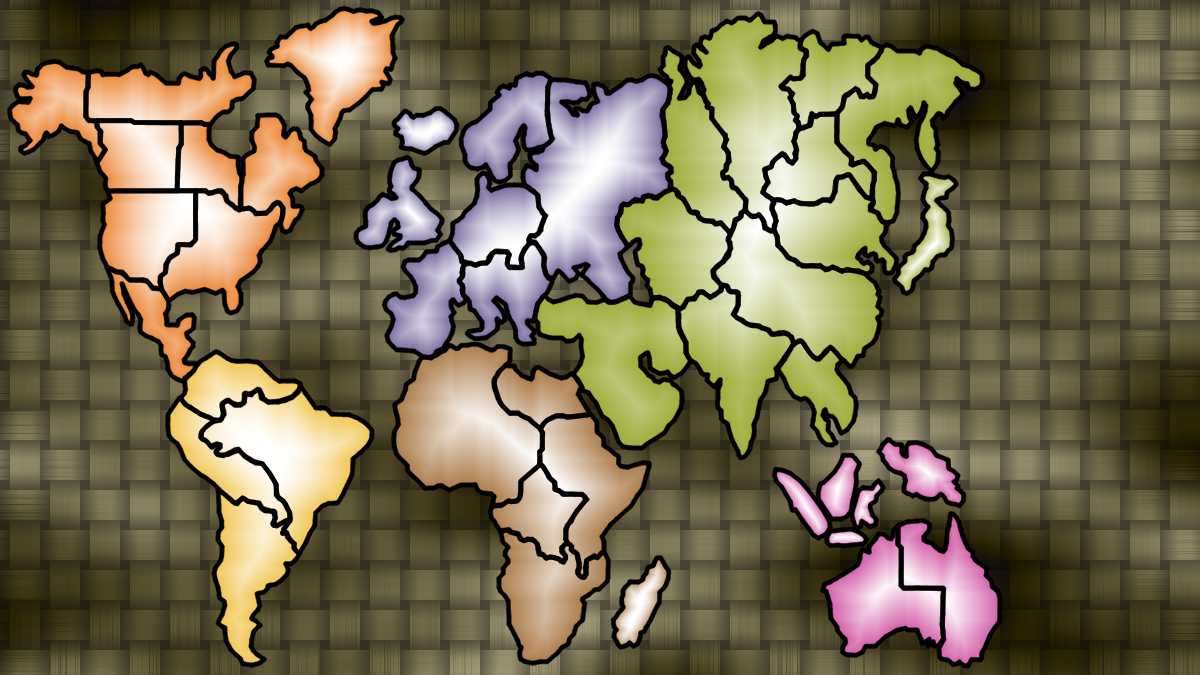
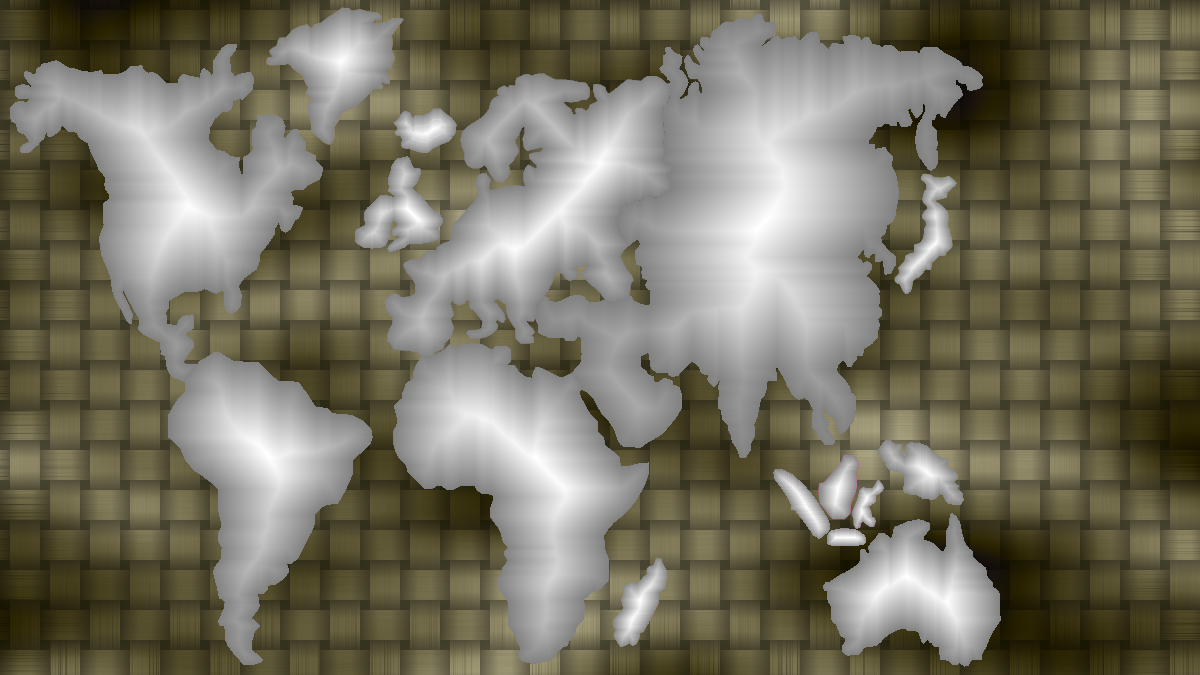
minor changes to main

diff --git a/main.cpp b/main.cpp
@@ -217,15 +217,9 @@ int main()
                 // draw text for armies
             }*/
 			for (int i = 0; i < territorySprites.size(); i++) {
-				if (world.getTerritory(i)->GetOwner() == world.getPlayer(0)) {
-					// make the territory red
-					territorySprites.at(i).setColor(sf::Color::Red);
-					window.draw(territorySprites.at(i));
-				} else if (world.getTerritory(i)->GetOwner() == world.getPlayer(1)) {
-					// make the territory blue
-					territorySprites.at(i).setColor(sf::Color::Blue);
-					window.draw(territorySprites.at(i));
-				}
+
+				territorySprites.at(i).setColor(world.getTerritory(i)->GetOwner()->getColor());
+				window.draw(territorySprites.at(i));
 			}
 			window.draw(normalBordersSprite);
 

diff --git a/risk.cpp b/risk.cpp
@@ -191,6 +191,11 @@ unsigned int Player::getNumTerritories()
     return this->territories.size();
 }
 
+sf::Color Player::getColor()
+{
+	return this->color;
+}
+
 // Player class definitions ^
 ///////////////////////////////////////////////////////////////////////////////////////////////////
 
